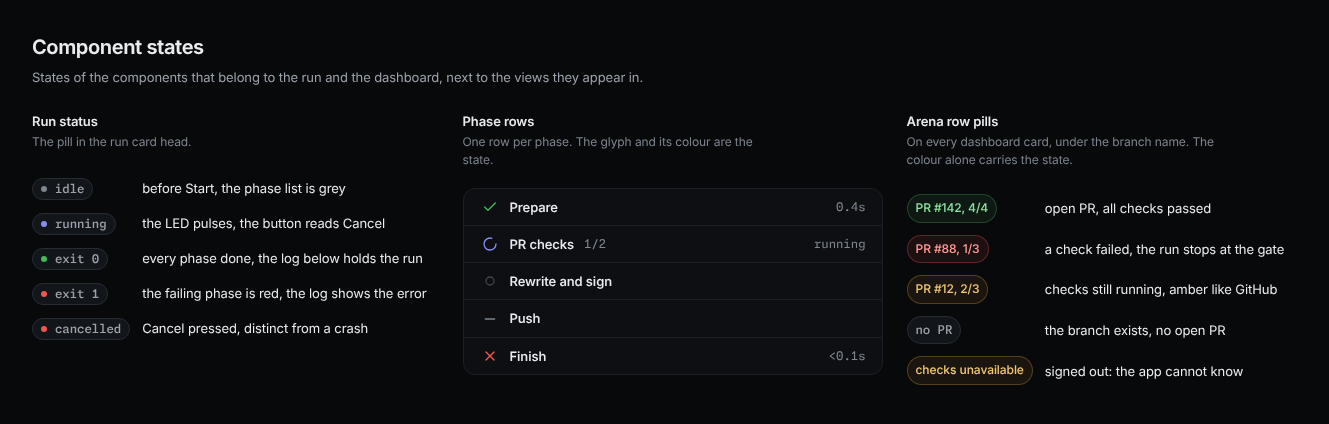
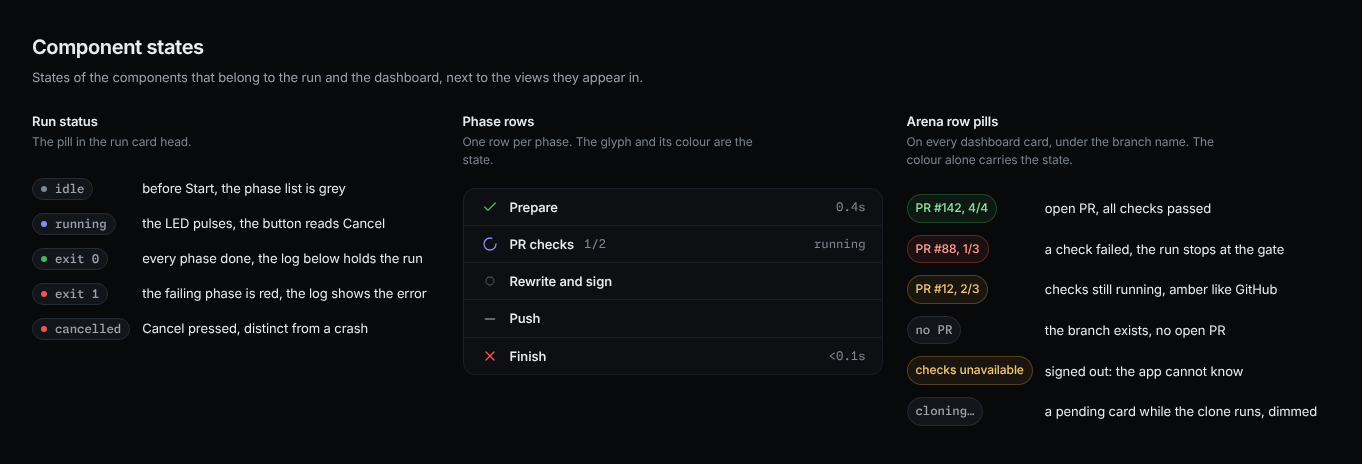
feat(ui): show list edits before the reply

diff --git a/ui/static/index.html b/ui/static/index.html
@@ -293,6 +293,7 @@
   .repo-card:hover { border-color: #2c333c; background: #0f1216; }
   .repo-card:hover .repo-name, .repo-name:focus-visible { text-decoration: underline; text-underline-offset: 3px; }
   .repo-card:active { transform: translateY(1px); }
+  .repo-card.pending { opacity: .6; pointer-events: none; }
   .repo-head { display: contents; }
   .repo-head > div { grid-area: name; max-width: 280px; }
   .repo-card > .rm { grid-area: rm; }
@@ -1027,6 +1028,16 @@
   }
   const post = (path, body) =>
     api(path, { method: "POST", headers: { "Content-Type": "application/json" }, body: JSON.stringify(body || {}) });
+  // a write that lost its connection goes once more with the same body; the
+  // server treats a repeat as done, so the list holds one row either way
+  async function postOnce(path, body) {
+    try {
+      return await post(path, body);
+    } catch (err) {
+      if (err instanceof TypeError) return post(path, body);
+      throw err;
+    }
+  }
 
   // ------------------------------------------------------------------ views
   // The address bar is the state: refresh, Back, and Forward all land on the
@@ -1144,17 +1155,31 @@
           return;
         }
         clearTimeout(timer);
+        const kept = state.repos;
+        state.repos = state.repos.filter((r) => r.id !== repo.id);
+        renderRepos();
         try {
-          await post(`/api/repos/${repo.id}/remove`, { delete: true });
+          await postOnce(`/api/repos/${repo.id}/remove`, { delete: true });
           toast("removed");
           loadRepos();
-        } catch (err) { toast(err.message); disarm(); }
+        } catch (err) {
+          state.repos = kept;
+          renderRepos();
+          toast(err.message);
+        }
       },
     }, icon("trash-2"));
     return btn;
   }
 
   function repoCard(repo) {
+    if (repo.pending) {
+      return el("div", { class: "repo-card pending", "aria-busy": "true" },
+        el("div", { class: "repo-head" },
+          el("span", { class: "repo-ico", "aria-hidden": "true" }, icon("git-branch")),
+          el("div", { style: "min-width:0" }, el("span", { class: "repo-name" }, repo.name))),
+        el("div", { class: "repo-meta" }, el("span", { class: "pill mono" }, "cloning…")));
+    }
     const s = repo.status || {};
     const head = el("div", { class: "repo-head" },
       el("span", { class: "repo-ico", "aria-hidden": "true" }, icon("git-branch")),
@@ -1226,11 +1251,18 @@
 
   function sortedRepos() {
     const order = SORTS[$("repo-sort").value] || SORTS.newest;
-    return state.repos.map((repo, at) => ({ repo, at })).sort(order).map((x) => x.repo);
+    const first = (a, b) => Number(Boolean(b.repo.pending)) - Number(Boolean(a.repo.pending)) || order(a, b);
+    return state.repos.map((repo, at) => ({ repo, at })).sort(first).map((x) => x.repo);
   }
 
   function renderGrid() {
     $("repo-grid").replaceChildren(...sortedRepos().map(repoCard));
+  }
+
+  // the grid and its empty state together, for a load and for a list edited before the reply
+  function renderRepos() {
+    renderGrid();
+    $("repo-empty").hidden = state.unreachable || state.repos.length > 0;
   }
 
   function restoreSort() {
@@ -1246,21 +1278,23 @@
 
   async function loadRepos(fresh = false) {
     if (!state.auth) await refreshAuth();
+    // a card whose clone is still running outlives every reload of the list
+    const pending = state.repos.filter((r) => r.pending);
     try {
-      state.repos = fresh
+      const repos = fresh
         ? await post("/api/fetch", { force: fresh === "force" })
         : await api("/api/repos");
+      state.repos = [...pending, ...repos];
       state.unreachable = false;
     } catch (err) {
       // "no repos" and "cannot ask the server" look identical on screen
       // unless we keep them apart - and an empty dashboard here would be a lie
-      state.repos = [];
+      state.repos = pending;
       state.unreachable = true;
     }
     $("repo-loading").hidden = true;
     const grid = $("repo-grid");
-    renderGrid();
-    $("repo-empty").hidden = state.unreachable || state.repos.length > 0;
+    renderRepos();
     grid.hidden = state.unreachable;
     const box = $("offline-banner");
     box.hidden = !state.unreachable;
@@ -1301,13 +1335,21 @@
     const btn = $("add-btn");
     btn.disabled = true;
     btn.textContent = "Cloning…";
+    const name = source.replace(/\/+$/, "").replace(/\.git$/, "").split(/[/:]/).pop();
+    const pending = { id: `pending-${Date.now()}`, name, pending: true };
+    const settle = () => { state.repos = state.repos.filter((r) => r !== pending); };
+    state.repos = [pending, ...state.repos];
+    renderRepos();
     try {
-      const repo = await post("/api/repos", { source });
+      const repo = await postOnce("/api/repos", { source });
       input.value = "";
       toast(`added ${repo.name}`);
+      settle();
       await loadRepos();
       openRepo(repo.id);
     } catch (err) {
+      settle();
+      renderRepos();
       toast(err.message);
     } finally {
       btn.disabled = false;
@@ -1419,15 +1461,29 @@
     dlg.returnValue = "";
     dlg.onclose = async () => {
       if (dlg.returnValue !== "delete" || state.repo !== repo) return;
+      const kept = repo.status;
+      if (state.arena === name) state.arena = "";
+      showArena(repo, { ...kept, arena: (kept.arena || []).filter((b) => b !== name) });
       try {
-        await post(`/api/repos/${repo.id}/arena/delete`, { branch: name });
+        await postOnce(`/api/repos/${repo.id}/arena/delete`, { branch: name });
         toast(`deleted ${name}`);
-        if (state.arena === name) state.arena = "";
         await refreshStatus();
         loadRepos();
-      } catch (err) { toast(err.message); }
+      } catch (err) {
+        if (state.repo === repo) showArena(repo, kept);
+        toast(err.message);
+      }
     };
     dlg.showModal();
+  }
+
+  // the row leaves before the reply and comes back on a failure
+  function showArena(repo, status) {
+    repo.status = status;
+    renderBranchSelect();
+    renderArenaSelect();
+    renderSidebar();
+    renderGrid();
   }
 
   // The run pulls from the selected arena branch. With one branch there is

diff --git a/tests/e2e/test_optimistic.py b/tests/e2e/test_optimistic.py
@@ -1,0 +1,114 @@
+"""List edits show before the reply: the row leaves or arrives at once, a failure undoes it."""
+
+from __future__ import annotations
+
+import json
+import time
+from typing import Any
+
+import pytest
+
+from scripts.walk import Walker
+
+pytestmark = pytest.mark.e2e
+
+BRANCH = "arena/session-3"
+ROW = f".arena-item:has(.row-btn[data-branch='{BRANCH}'])"
+CARD = ".repo-card:has-text('docs-site')"
+PENDING = ".repo-card.pending"
+SETTLE = 150
+
+
+def wait_for(held: list[Any], page: Any) -> Any:
+  deadline = time.monotonic() + 5
+  while not held and time.monotonic() < deadline:
+    page.wait_for_timeout(50)
+  assert held, "the page sent the request"
+  return held[0]
+
+
+def fail(route: Any) -> None:
+  route.fulfill(
+    status=500,
+    content_type="application/json",
+    body=json.dumps({"error": "origin refused"}),
+  )
+
+
+def test_the_arena_row_leaves_before_the_reply_and_returns_on_failure(
+  desktop: Walker,
+) -> None:
+  page = desktop.page
+  held: list[Any] = []
+  page.route("**/api/repos/*/arena/delete", lambda route: held.append(route))
+  try:
+    desktop.goto(1200)
+    desktop.click(".repo-card:has-text('shop-web') .repo-name", 800)
+    assert desktop.count(ROW) == 1
+    desktop.click(f"{ROW} .arena-del", 300)
+    desktop.click("#confirm-go", SETTLE)
+    route = wait_for(held, page)
+    assert desktop.count(ROW) == 0, "the row left before the server answered"
+    fail(route)
+    page.wait_for_timeout(SETTLE)
+    assert desktop.count(ROW) == 1, "a refused delete puts the row back"
+    assert "origin refused" in desktop.text("#toast")
+  finally:
+    page.unroute("**/api/repos/*/arena/delete")
+
+
+def test_the_card_leaves_before_the_reply_and_returns_on_failure(
+  desktop: Walker,
+) -> None:
+  page = desktop.page
+  held: list[Any] = []
+  page.route("**/api/repos/*/remove", lambda route: held.append(route))
+  try:
+    desktop.goto(1200)
+    cards = desktop.count(".repo-card")
+    desktop.click(f"{CARD} .rm", 100)
+    desktop.click(f"{CARD} .rm", SETTLE)
+    route = wait_for(held, page)
+    assert desktop.count(CARD) == 0, "the card left before the server answered"
+    assert desktop.count(".repo-card") == cards - 1
+    fail(route)
+    page.wait_for_timeout(SETTLE)
+    assert desktop.count(CARD) == 1, "a refused remove puts the card back"
+  finally:
+    page.unroute("**/api/repos/*/remove")
+
+
+def test_the_add_bar_shows_a_pending_card_before_the_clone_answers(
+  desktop: Walker,
+) -> None:
+  page = desktop.page
+  held: list[Any] = []
+
+  def hold_posts(route: Any) -> None:
+    if route.request.method == "POST":
+      held.append(route)
+    else:
+      route.continue_()
+
+  page.route("**/api/repos", hold_posts)
+  try:
+    desktop.goto(1200)
+    cards = desktop.count(".repo-card")
+    page.fill("#add-source", "https://github.com/acme/new-repo.git")
+    desktop.click("#add-btn", SETTLE)
+    route = wait_for(held, page)
+    assert desktop.count(PENDING) == 1, "a pending card shows before the clone answers"
+    assert "new-repo" in desktop.text(PENDING)
+    assert "cloning" in desktop.text(PENDING)
+    first = page.eval_on_selector(".repo-card", "e => e.className")
+    assert "pending" in first, "the pending card leads the grid"
+    assert desktop.count(".repo-card") == cards + 1
+    page.click("#repos-refresh")
+    page.wait_for_timeout(SETTLE * 4)
+    assert desktop.count(PENDING) == 1, "a reload of the list keeps the pending card"
+    fail(route)
+    page.wait_for_timeout(SETTLE)
+    assert desktop.count(PENDING) == 0, "a refused clone takes the pending card away"
+    assert desktop.count(".repo-card") == cards
+  finally:
+    page.unroute("**/api/repos")

diff --git a/scripts/design_boards.py b/scripts/design_boards.py
@@ -480,6 +480,7 @@ def states_board(_: dict[str, bytes]) -> str:
     f"<tr><td>{pill('warn', 'PR #12, 2/3', dot=False)}</td><td>checks still running, amber like GitHub</td></tr>"
     f"<tr><td>{pill('mono', 'no PR', dot=False)}</td><td>the branch exists, no open PR</td></tr>"
     f"<tr><td>{pill('warn', 'checks unavailable', dot=False)}</td><td>signed out: the app cannot know</td></tr>"
+    f"<tr><td>{pill('mono', 'cloning…', dot=False)}</td><td>a pending card while the clone runs, dimmed</td></tr>"
     "</table>"
   )
   body = (

diff --git a/docs/design.md b/docs/design.md
@@ -83,7 +83,7 @@ The one design record for the arena-cleanup web app. The sections follow the nem
 - `modal`: a `dialog` of 420 px at most, with a title, one paragraph, and Cancel then Delete at the right. The backdrop dims the page. Escape and Cancel close it without a request.
 - `opt.row`: a grid of three columns, `128px minmax(0, 1fr) auto`, for the label, the control, and the trailing Browse or slider readout. `check`: a label with a drawn checkbox. The box is 16 px, 20 px on a phone, with a 4 px radius and the surface-2 fill. Checked, it takes the accent fill and a white Lucide check. `danger` fills a checked destructive option with the warn colour and a dark check. On a phone the checkboxes form a grid with 160 px columns. Browse, the fold head, and the 16 px path field are 44 px targets there.
 - `phase`: a row with the state glyph, the name, a count, and the time. The count comes from the engine's lines. PR checks reads `passed/total`. Rewrite and sign reads `collecting N commits`, then `signing X/Y`, then `signed X commits`. Push reads `moving`, `pushing`, then `pushed X tags`, and stays empty without a tag. A dry run reads `would sign` and `would move`. Before a count the row carries the name alone.
-- `repo-card`: above 1200 px a subgrid row on the columns of `grid`, so the columns align across rows. Left to right: the icon, the name, the branch pill, the arena rows stacked behind a hairline, Clean, and Remove with the trash glyph. The arena area takes the free width, so the buttons sit at the right edge. In a row an arena row is one line: the name, the ahead chip, and the PR pill. At 1200 px and below a grid card. The icon, the name, and Remove sit on top on one centre line, then the arena rows, and Clean & Push bottom right. The branch chip stays in the rows, and an unavailable card shows its reason in the arena area.
+- `repo-card`: above 1200 px a subgrid row on the columns of `grid`, so the columns align across rows. Left to right: the icon, the name, the branch pill, the arena rows stacked behind a hairline, Clean, and Remove with the trash glyph. The arena area takes the free width, so the buttons sit at the right edge. In a row an arena row is one line: the name, the ahead chip, and the PR pill. At 1200 px and below a grid card. The icon, the name, and Remove sit on top on one centre line, then the arena rows, and Clean & Push bottom right. The branch chip stays in the rows, and an unavailable card shows its reason in the arena area. A pending card, the clone still running, is dimmed with a `cloning` pill and leads the grid.
 - `sign-row`: label column of 120 px and a value column. On a phone the label takes a full row.
 - `sign-fields`: name and e-mail side by side, one column on a phone.
 - `card.fold`: a `details` card. The `summary` is the card head with a `show` or `hide` mark at the right, and the body opens below it. Closed, the head has no bottom border.
@@ -194,3 +194,4 @@ The one design record for the arena-cleanup web app. The sections follow the nem
 - Accepted 2026-10-24: four values move to the 4 px scale after the nuu audit. Fields pad 12 px instead of 10, and the pill gap is 8 px instead of 6. The phone keeps the 16 px page padding instead of 14, and its title reads the 20 px ramp size instead of 19. The pill radius reads 1000 px, the same shape on the scale.
 - Accepted 2026-10-24: the PR pill and the sidebar dot paint running checks amber, the GitHub pending colour, instead of blue. A PR without checks gets a grey dot. The `info` token keeps the debug log rows.
 - Accepted 2026-10-24: a sidebar arena row takes two lines, as the cards do. The dot and the name first, then the ahead count and the PR meta under the name. The tail used to wrap right aligned only when it did not fit.
+- Accepted 2026-10-24: list edits show before the reply, nuu rule 10. The arena row leaves on Delete, the card leaves on Remove, and Add puts a dimmed pending card first. A refused call puts the row back with the error, a lost connection sends the write once more.

diff --git a/CHANGELOG.md b/CHANGELOG.md
@@ -25,6 +25,10 @@ and the project uses [Semantic Versioning](https://semver.org/spec/v2.0.0.html).
   pending colour, instead of blue. A PR without checks gets a grey dot.
 - A sidebar arena row takes two lines: the dot and the name, then the ahead
   count and the PR meta under the name, as the cards do.
+- List edits show before the reply: the arena row leaves on Delete, the card
+  leaves on Remove, and Add puts a pending card first. A refused call puts
+  the row back with the error, and a lost connection sends the write once
+  more.
 
 ## [0.3.0] - 2026-10-23
 
